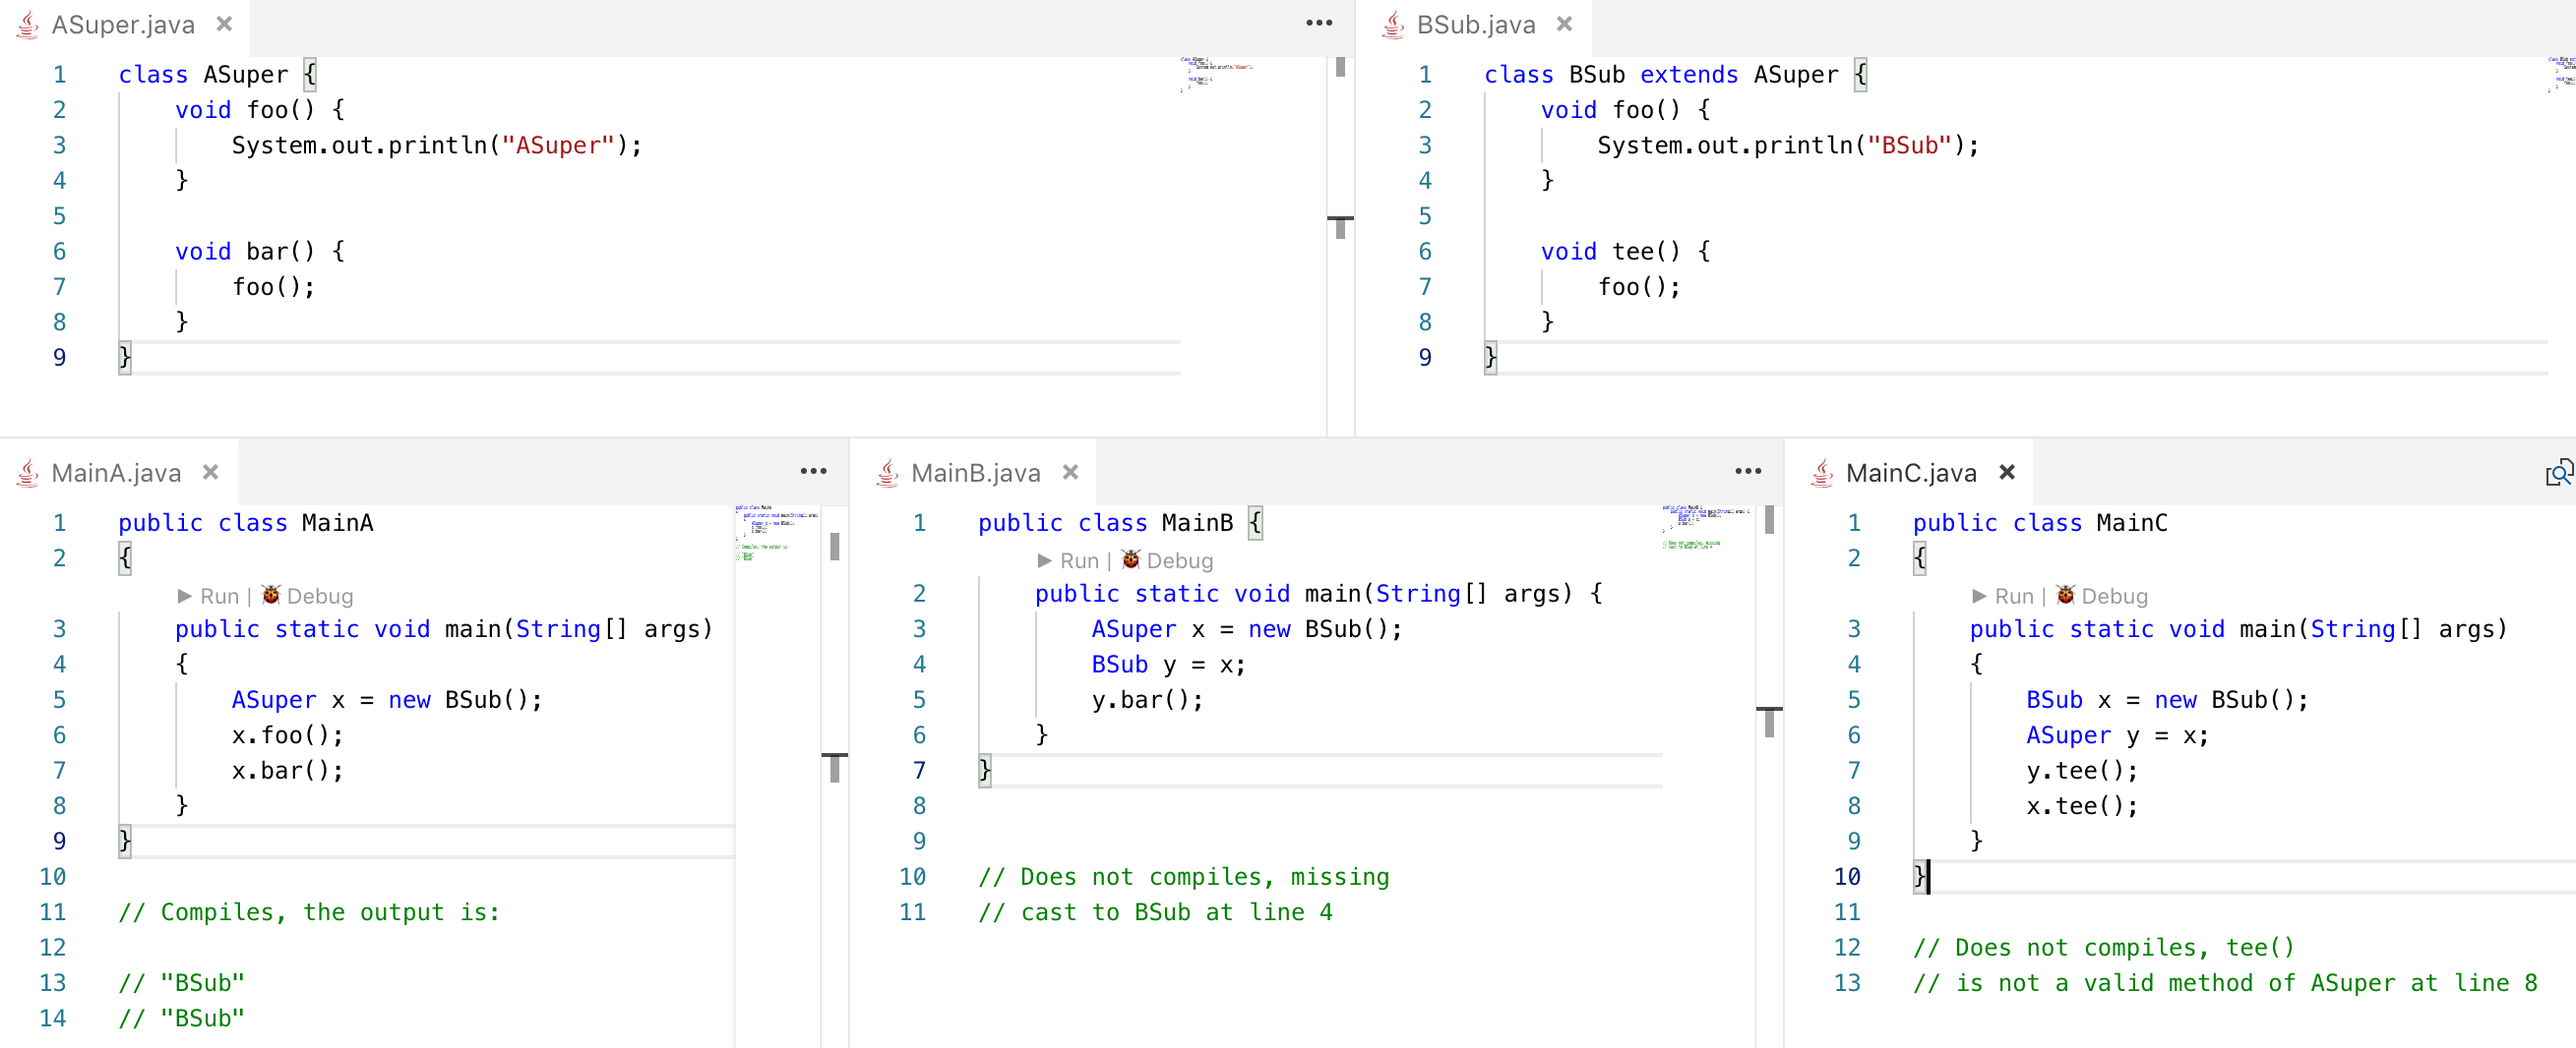
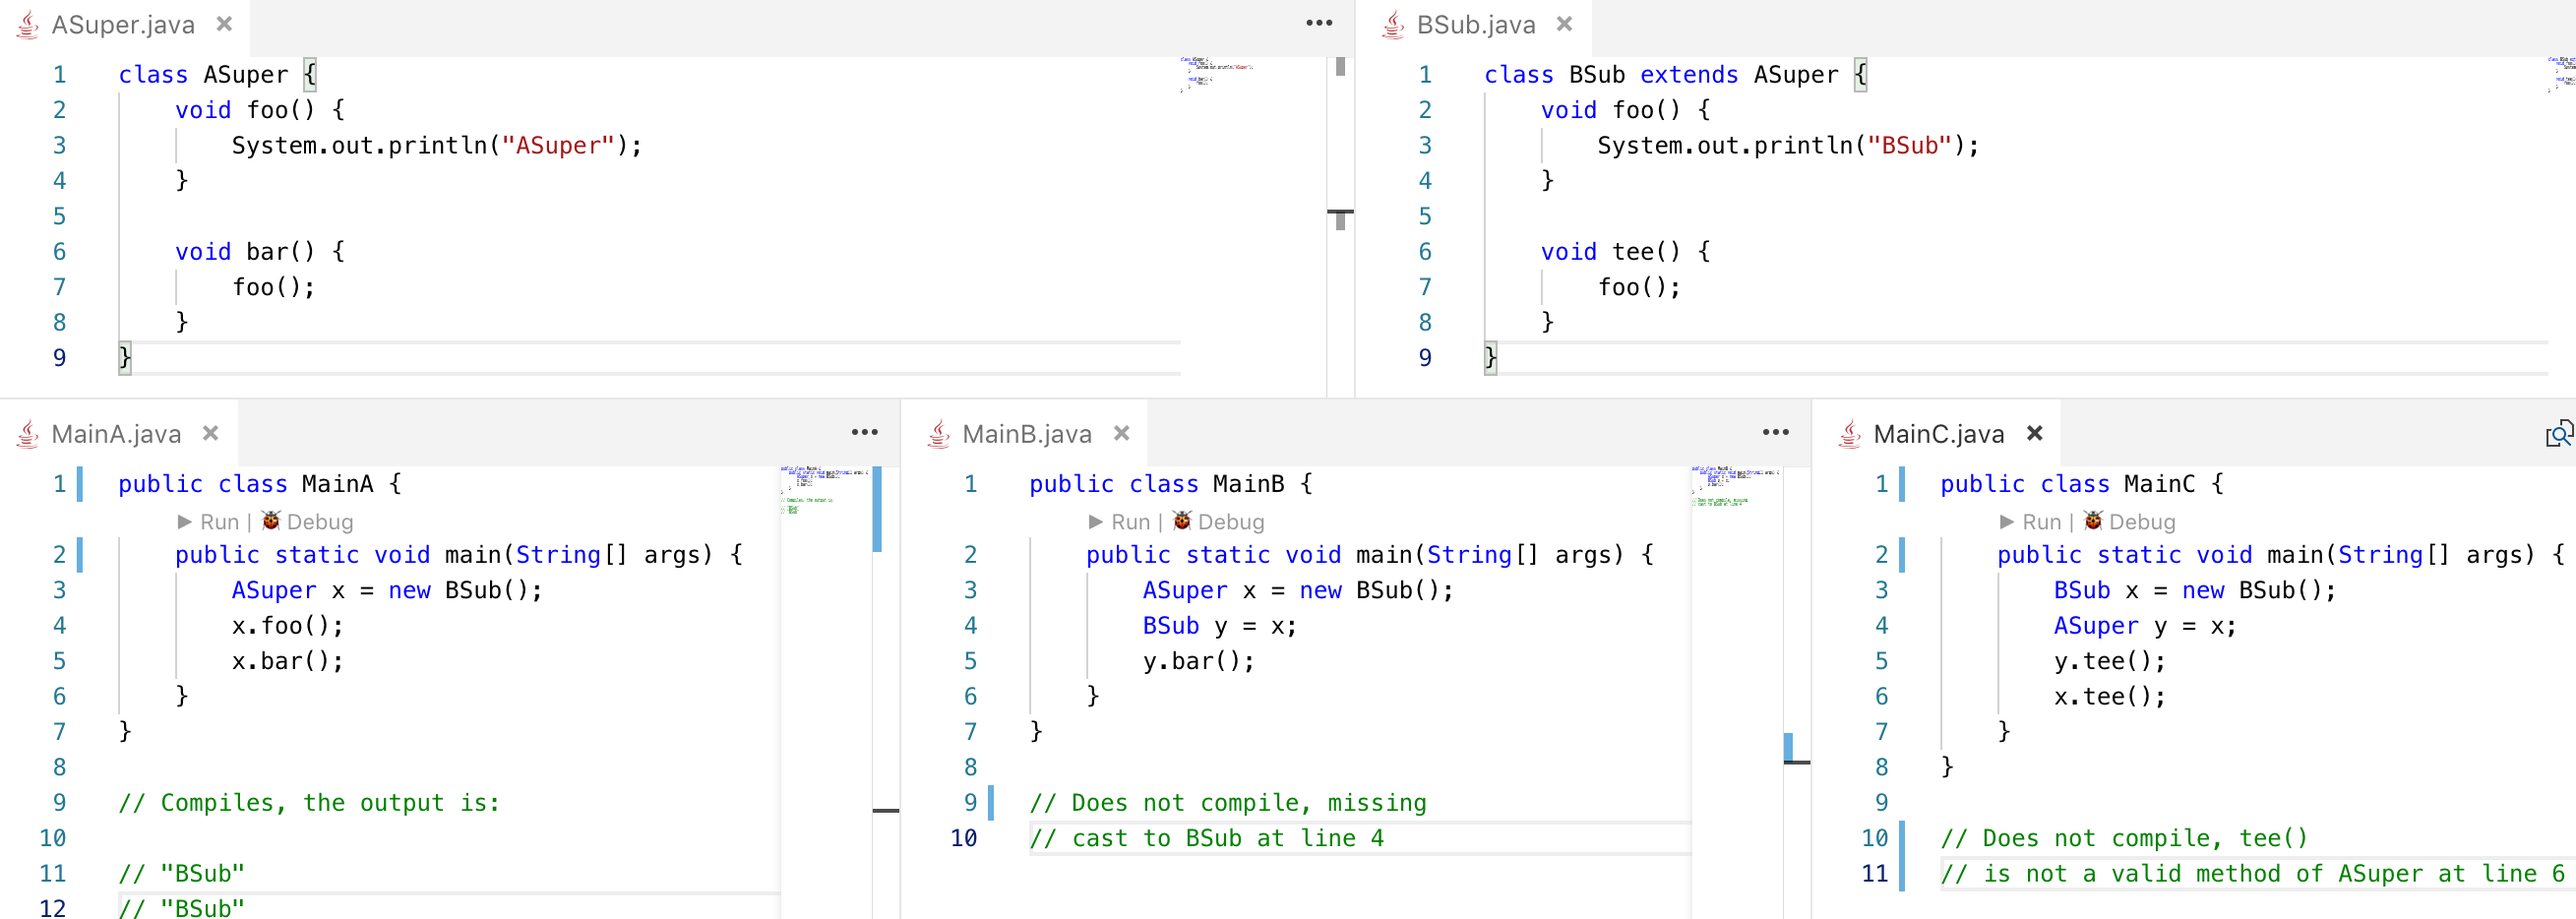
Update readme of lab_1

diff --git a/lab_1/ex_6/MainC.java b/lab_1/ex_6/MainC.java
@@ -1,7 +1,5 @@
-public class MainC
-{
-    public static void main(String[] args)
-    {
+public class MainC {
+    public static void main(String[] args) {
         BSub x = new BSub();
         ASuper y = x;
         y.tee();
@@ -9,5 +7,5 @@ public class MainC
     }
 }
 
-// Does not compiles, tee()
-// is not a valid method of ASuper at line 8
+// Does not compile, tee()
+// is not a valid method of ASuper at line 6

diff --git a/lab_1/ex_6/MainA.java b/lab_1/ex_6/MainA.java
@@ -1,7 +1,5 @@
-public class MainA
-{
-    public static void main(String[] args)
-    {
+public class MainA {
+    public static void main(String[] args) {
         ASuper x = new BSub();
         x.foo();
         x.bar();

diff --git a/lab_1/ex_6/MainB.java b/lab_1/ex_6/MainB.java
@@ -6,6 +6,5 @@ public class MainB {
     }
 }
 
-
-// Does not compiles, missing 
+// Does not compile, missing
 // cast to BSub at line 4

diff --git a/lab_1/ex_4/readme.md b/lab_1/ex_4/readme.md
@@ -1,3 +1,12 @@
+# Exercise 4
+The file Strings.java contains classes `String1` and `String2`, that just differ for the way they print the same string in a loop. At the end of the last lecture we inspected the bytecode of the print/println statements, identifying a difference in the allocation of memory.
+
+Run and inspect classes `String1` and `String2` with `visualvm`, comparing in particular the allocation patterns on the heap and the time spent for Garbage Collection. Are they similar or not? Can you explain why? (Hint: inspect the relevant `PrintStream.java`'s println source code; you can browse it also in NetBeans.)
+
+**Goal**: Browsing the Java API source code to identify the resources used by the runtime support during execution.
+
+**Expected output**: One short answer to the first question, supported by a detailed explanation.
+
 # Analysis
 
 The `String1` does not allocate a new heap cell for each string printed in the loop, while the `Strings2` does (strings are immutable, a concatenation results in a new string allocation). In any case the memory distribution remains almost the same thanks to garbage collector that de-allocates the used string after a while.

diff --git a/lab_1/ex_2/readme.md b/lab_1/ex_2/readme.md
@@ -1,6 +1,15 @@
-# Disassembled bytecode
+# Exercise 2
+Check the differences between files `StrangeOne.java` and `StrangeTwo.java`. Compile them, disassemble the obtained classes using `javap -c` and inspect the byte-code of the method sum. Is the byte-code the same? Can you explain why?
 
-### Compiled from "StrangeOne.java"
+**Goal**: Using `javap` for disassembling Java code; inspecting simple bytecodes.
+
+**Expected output**: One short sentence answering the two questions.
+
+# Analysis
+
+## Disassembled bytecode
+
+Compiled from "StrangeOne.java"
 ```
 class StrangeOne {
   int b0;
@@ -29,7 +38,8 @@ class StrangeOne {
        9: ireturn
 }
 ```
-### Compiled from "StrangeTwo.java"
+
+Compiled from "StrangeTwo.java"
 ```
 class StrangeTwo {
   byte b0;
@@ -58,7 +68,7 @@ class StrangeTwo {
        9: ireturn
 }
 ```
-# Analysis
+
 The difference is the type of `b0` and `b1` vars. In the first class their type is `int` while in the second their type is `byte`. But since op-codes are bytes, there are at most 256 distinct ones, hence:
 - Impossible to have for each instruction one opcode per type
 - Careful selection of which types to support for each instruction

diff --git a/lab_1/ex_5/readme.md b/lab_1/ex_5/readme.md
@@ -1,3 +1,10 @@
+# Exercise 5
+Run and inspect the program `GCstrange` using `visualvm`, in particular check the evolution of the heap, the activity of the `GC` and the activity of the `Finalizer` thread. Using `GCstrange` as a template, write a simple class that overrides the method finalize in order to count how many times the garbage collector is invoked. Write a main to test this class.
+
+**Goal**: Understanding the finalization of objects in Java; exploiting the finalize method to infer simple properties of garbage collection.
+
+**Expected output**: A clear explanation of why the occupation of the memory increases during execution of the given program; a working Java program implementing the given specification.
+
 # Analysis
 
 The `finalize()` method, called by garbage collector insert the current instance into a static linked list, saved in the non-heap memory of the JVM. In this case the GC can not delete the object since its reference is saved in a per-thread shared memory area. To properly count the numbers of `finalize()` calls, instead of inserting the current instance, simply increment a shared counter.

diff --git a/lab_1/ex_3/readme.md b/lab_1/ex_3/readme.md
@@ -1,3 +1,10 @@
+# Exercise 3
+Run the program `WrongQueue` and inspect its behaviour using `visualvm`. Can you explain the continuos growth of the heap? Find the code causing the bug and fix it.
+
+**Goal**: Using `visualvm` to inspect the memory consumed by a Java program; Reviewing Java code to detect non-trivial errors; Fixing bugs
+
+**Expected output**: One sentence identifying the bug in the code; A revised version of the class with minimal changes to fix the bug.
+
 # Analysis
 
 The the original code the `current` var in `dequeue()` keeps linked to the previous node and it never gets garbage-collected. So we explicitly remove the useless link to permit GC.

diff --git a/lab_1/ex_6/readme.md b/lab_1/ex_6/readme.md
@@ -1,3 +1,8 @@
+# Exercise 6
+The classes `ASuper` and `BSub` are those of the second question of the Entry Test. Consider the files `MainA.java`, `MainB.java` and `MainC.java`: just by inspecting their code, can you say for each of them if it compiles or not? If yes, can you predict what the code prints in each case? Verify your guesses by actually compiling and executing the code.
+
+**Goal**: Most students provided only partly correct answers to the second question of the entry test. This exercise gives them the possibility of checking their answers.
+
 # Analysis
 
 ![Source code](./assets/code.png "Source code")

diff --git a/lab_1/ex_1/readme.md b/lab_1/ex_1/readme.md
@@ -1,0 +1,6 @@
+## Exercise 1
+Using NetBeans create a simple Java program that takes some strings from the command line, sorts them using the method `Arrays.sort` and prints the ones whose length is even.
+
+**Goal**: Checking that the NetBeans installation works; starting simple Java coding.
+
+**Expected output**: Simple Java class working as described.
